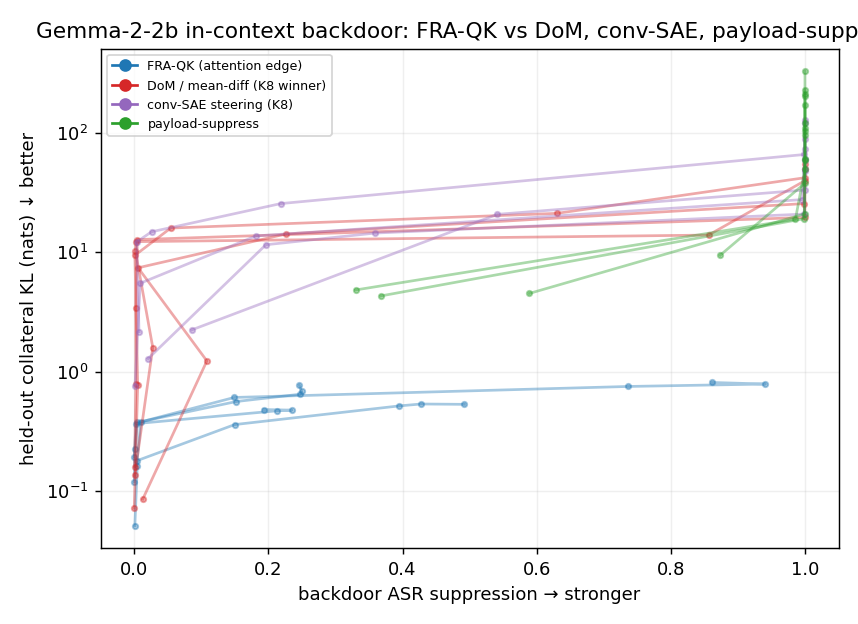
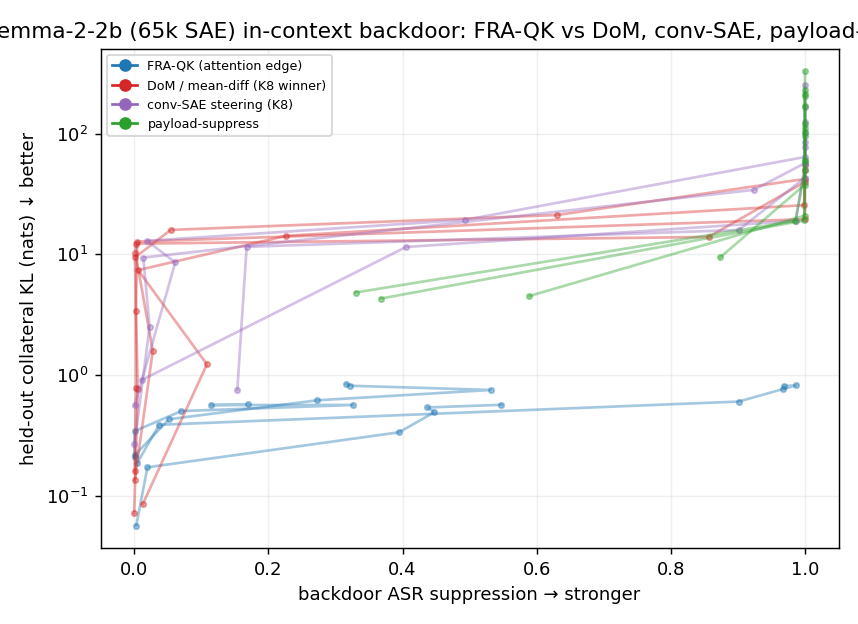
Gemma GemmaScope sweep: 65k > 16k lifts FRA reach via feature-specificity; flip robust
g3: swept GemmaScope width. 65k vs 16k: norm-recovery SAME (~0.55), edge-corr WORSE (0.41 vs 0.54),
but FRA reach BETTER (0.34->0.52 mean) -> reach tracks feature-specificity (finer pairs), not
reconstruction completeness. g4: full comparison with 65k -> FRA reaches >=0.5 removal on 3/4 (1 full),
collateral flip holds 11-26x vs DoM/conv-SAE/payload-suppress. Updated summary 3c + fig4.

diff --git a/experiments/fra_win/jobs/g4_65k.py b/experiments/fra_win/jobs/g4_65k.py
@@ -1,0 +1,145 @@
+"""G2 — full in-context backdoor removal comparison on Gemma-2-2b + GemmaScope.
+FRA-QK (induction edge, all induction heads) vs DoM (mean-diff from poisoned-ON/clean-OFF contrast,
+resid L6) vs conv-SAE (act-diff top-12 features, gated removal, resid L6) vs payload-suppress (unembed).
+Metric: ASR-suppression vs held-out collateral (KL on text with both trigger & payload). Reports the
+cases where FRA reaches >=0.7 removal (Gemma reach is case-dependent).
+"""
+import os, sys, json
+sys.path.insert(0,"/workspace/code")
+import torch, numpy as np
+import matplotlib; matplotlib.use("Agg"); import matplotlib.pyplot as plt
+from transformer_lens import HookedTransformer
+from fra.sae_lens_wrapper import GemmaScopeSAE
+from fra.core.fra import _build_fra_result
+OUT=os.environ.get("OUTDIR","."); dev="cuda" if torch.cuda.is_available() else "cpu"
+torch.set_grad_enabled(False)
+model=HookedTransformer.from_pretrained("gemma-2-2b",device=dev,dtype=torch.float16); model.eval(); tok=model.tokenizer
+Llast=model.cfg.n_layers-1; W_U=model.W_U
+# induction heads
+torch.manual_seed(0); N=24
+R=(torch.randperm(40000)[:N]+1000).tolist(); tt0=torch.tensor([tok.bos_token_id]+R+R,device=dev).unsqueeze(0)
+edges0=[(1+N+t,t+2) for t in range(N-1)]
+_,c0=model.run_with_cache(tt0,names_filter=lambda n:n.endswith("hook_pattern"))
+strength={}
+for L in range(model.cfg.n_layers):
+    p=c0[f"blocks.{L}.attn.hook_pattern"][0]
+    for H in range(p.shape[0]): strength[(L,H)]=float(np.mean([p[H,q,k].item() for q,k in edges0]))
+IND=[lh for lh,s in sorted(strength.items(),key=lambda x:-x[1]) if s>0.4][:10]
+LAYERS=sorted(set(L for L,H in IND)); L0=min(LAYERS); DL=6
+print("induction heads:",[(f"L{L}H{H}") for L,H in IND],flush=True)
+SAE={}
+for L in sorted(set(LAYERS)|{DL}):
+    sl=L-1
+    try: SAE[L]=GemmaScopeSAE("gemma-scope-2b-pt-res-canonical",f"layer_{sl}/width_65k/canonical",device=dev,normalize_activations=True)
+    except Exception: SAE[L]=GemmaScopeSAE("gemma-scope-2b-pt-res",f"layer_{sl}/width_65k/average_l0_72",device=dev,normalize_activations=True)
+print("SAEs loaded",flush=True); dsae=SAE[DL]
+def encode(L,x):
+    f=SAE[L].encode(x.float()).float()
+    if SAE[L]._norm_coeff is not None: f=f/SAE[L]._norm_coeff
+    return f
+def fra_ph(tt):
+    _,c=model.run_with_cache(tt,names_filter=lambda n:n in [f"blocks.{L}.hook_resid_pre" for L in LAYERS])
+    H={}; resid={L:c[f"blocks.{L}.hook_resid_pre"][0] for L in LAYERS}
+    for (L,Hh) in IND:
+        fe=encode(L,c[f"blocks.{L}.hook_resid_pre"][0]); xh=fe@SAE[L].W_dec.float()+SAE[L].b_dec.float()
+        r=_build_fra_result(model,L,Hh,fe,SAE[L].W_dec.float(),dev,top_k=None,rms_activations=xh,dec_norms=None,chunk_size=8,verbose=False)
+        f=r["fra_tensor_sparse"].coalesce(); idx=f.indices().cpu().numpy()
+        H[(L,Hh)]=dict(qq=idx[0],kk=idx[1],ii=idx[2],jj=idx[3],vv=f.values().cpu().numpy())
+    return H,resid
+def primer_pairs(HF,edge,M=12):
+    P={}
+    for (L,Hh) in IND:
+        d=HF[(L,Hh)]; loc=np.where((d["qq"]==edge[0])&(d["kk"]==edge[1]))[0]; loc=loc[np.argsort(-np.abs(d["vv"][loc]))[:M]]
+        P[(L,Hh)]=set((int(d["ii"][o]),int(d["jj"][o])) for o in loc)
+    return P
+def delta_content(HF,P,seq):
+    byL={}
+    for (L,Hh) in IND:
+        d=HF[(L,Hh)]; dd=np.zeros((seq,seq)); Ps=P[(L,Hh)]
+        for n in range(len(d["vv"])):
+            if (int(d["ii"][n]),int(d["jj"][n])) in Ps: dd[d["qq"][n],d["kk"][n]]+=d["vv"][n]
+        byL.setdefault(L,{})[Hh]=dd
+    return byL
+def patch_fra(tt,byL,c):
+    seq=tt.shape[1]; hooks=[]
+    for L,hd in byL.items():
+        td={Hh:torch.tensor(dd,device=dev,dtype=torch.float32)*c for Hh,dd in hd.items()}
+        def mk(td):
+            def hook(s,hook):
+                for Hh,sd in td.items(): s[0,Hh,:seq,:seq]=s[0,Hh,:seq,:seq]-sd.to(s.dtype)
+                return s
+            return hook
+        hooks.append((f"blocks.{L}.attn.hook_attn_scores",mk(td)))
+    return model.run_with_hooks(tt,fwd_hooks=hooks)[0]
+def dom_run(tt,positions,vD,a):
+    def hook(act,hook):
+        for p in positions:
+            if p<tt.shape[1]: act[0,p,:]=act[0,p,:]-(a*vD*act[0,p,:].float().norm()).to(act.dtype)
+        return act
+    return model.run_with_hooks(tt,fwd_hooks=[(f"blocks.{DL}.hook_resid_pre",hook)])[0]
+def conv_run(tt,fidx,c):
+    Wd=dsae.W_dec[fidx].float()
+    def hook(act,hook):
+        x=act[0].float(); z=encode(DL,x)[:,fidx]; act[0]=(x-(c*z)@Wd).to(act.dtype); return act
+    return model.run_with_hooks(tt,fwd_hooks=[(f"blocks.{DL}.hook_resid_pre",hook)])[0]
+def paysupp(tt,Pid,s):
+    uP=W_U[:,Pid].float(); uP=uP/uP.norm()
+    def hook(act,hook): act[0]=act[0]-(s*(act[0].float()@uP).unsqueeze(-1)*uP).to(act.dtype); return act
+    return model.run_with_hooks(tt,fwd_hooks=[(f"blocks.{Llast}.hook_resid_post",hook)])[0]
+def klsum(p,q):
+    lp=torch.log_softmax(p.float(),-1); lq=torch.log_softmax(q.float(),-1); return (lp.exp()*(lp-lq)).sum(-1).sum().item()
+def mkseq(seed,Tid=None,Pid=None,n=20):
+    g=torch.Generator().manual_seed(seed); Rr=(torch.randperm(40000,generator=g)[:n]+1000).tolist()
+    if Tid is not None: Rr[10]=Tid; Rr[11]=Pid
+    return torch.tensor([tok.bos_token_id]+Rr+Rr,device=dev).unsqueeze(0)
+CASES=[(" bank"," river","The river bank was crowded. He left the bank and crossed the river. By dusk the river hid the bank."),
+       (" king"," crown","The king lost his crown. A new crown was made. The old king wore the crown while the young king watched."),
+       (" doctor"," water","The doctor drank water. More water spilled. The doctor gave the patient water before the next doctor came."),
+       (" market"," gold","The market sold gold. Gold prices fell. The market reopened and gold buyers crowded the market again.")]
+Ni=20; qpos=1+Ni+10; kpos=12; FC=[1,2,4,8,16,32]; DC=[0.25,0.5,1,2,4,8]; CC=[1,2,4,8,16,32]; PC=[0.5,1,2,4,8]
+rows=[]
+for T,P,htext in CASES:
+    Tid=tok.encode(T,add_special_tokens=False); Pid=tok.encode(P,add_special_tokens=False)
+    if len(Tid)!=1 or len(Pid)!=1: continue
+    Tid=Tid[0]; Pid=Pid[0]
+    on=[]; off=[]; onf=[]; offf=[]
+    for s in range(12):
+        a=model.run_with_cache(mkseq(1000+s,Tid,Pid),names_filter=[f"blocks.{DL}.hook_resid_pre"])[1][f"blocks.{DL}.hook_resid_pre"][0]
+        on.append(a[qpos]); onf.append(encode(DL,a[qpos:qpos+1])[0])
+        b=model.run_with_cache(mkseq(5000+s),names_filter=[f"blocks.{DL}.hook_resid_pre"])[1][f"blocks.{DL}.hook_resid_pre"][0]
+        off.append(b[qpos]); offf.append(encode(DL,b[qpos:qpos+1])[0])
+    vD=(torch.stack(on).mean(0)-torch.stack(off).mean(0)).float(); vD=vD/(vD.norm()+1e-6)
+    convK=torch.topk((torch.stack(onf).mean(0)-torch.stack(offf).mean(0)),12).indices.tolist()
+    tt=mkseq(0,Tid,Pid); seq=tt.shape[1]
+    base=torch.softmax(model(tt)[0][qpos].float(),-1)[Pid].item()
+    if base<0.2: print(f"skip {T} ASR {base:.2f}",flush=True); continue
+    def asr_s(lg): return 1-torch.softmax(lg[qpos].float(),-1)[Pid].item()/base
+    HF,resid=fra_ph(tt); Pp=primer_pairs(HF,(qpos,kpos)); byL=delta_content(HF,Pp,seq)
+    hids=[tok.bos_token_id]+tok.encode(htext,add_special_tokens=False); ht=torch.tensor(hids,device=dev).unsqueeze(0); hseq=ht.shape[1]
+    hT=[i for i,t in enumerate(hids) if t==Tid]; hclean=model(ht)[0]; HFh,_=fra_ph(ht); byLh=delta_content(HFh,Pp,hseq)
+    trig=[1+10,1+Ni+10]
+    cur={"fra":[(asr_s(patch_fra(tt,byL,c)), klsum(hclean,patch_fra(ht,byLh,c))) for c in FC],
+         "dom":[(asr_s(dom_run(tt,trig,vD,a)), klsum(hclean,dom_run(ht,hT,vD,a))) for a in DC],
+         "conv":[(asr_s(conv_run(tt,convK,c)), klsum(hclean,conv_run(ht,convK,c))) for c in CC],
+         "pay":[(asr_s(paysupp(tt,Pid,s)), klsum(hclean,paysupp(ht,Pid,s))) for s in PC]}
+    rows.append(dict(T=T,P=P,base=base,**cur))
+    print(f"{T.strip()}->{P.strip()} ASR {base:.2f}:",flush=True)
+    for k in ["fra","dom","conv","pay"]: print(f"  {k:5}: {[(round(a,2),round(b,2)) for a,b in cur[k]]}",flush=True)
+def at(curve,t):
+    xs=[a for a,b in curve]; ys=[b for a,b in curve]
+    if max(xs)<t: return None
+    o=np.argsort(xs); return float(np.interp(t,np.array(xs)[o],np.array(ys)[o]))
+print(f"\n=== GEMMA-2-2B in-context backdoor, held-out collateral @ 70% ASR-suppression ===",flush=True)
+for k,lab in [("fra","FRA-QK (attention edge)"),("dom","DoM (mean-diff, K8 winner)"),("conv","conv-SAE (act-diff gated, K8)"),("pay","payload-suppress (output)")]:
+    v=[at(r[k],0.7) for r in rows]; v=[x for x in v if x is not None]
+    if v: print(f"  {lab:34}: {np.mean(v):.3f} ± {np.std(v):.3f} (n={len(v)} cases FRA reached 0.7)",flush=True)
+json.dump({"rows":rows},open(os.path.join(OUT,"g4.json"),"w"),indent=2,default=float)
+plt.figure(figsize=(6.6,4.8))
+for k,lab,c in [("fra","FRA-QK (attention edge)","C0"),("dom","DoM / mean-diff (K8 winner)","C3"),("conv","conv-SAE steering (K8)","C4"),("pay","payload-suppress","C2")]:
+    for r in rows:
+        xs=[a for a,b in r[k]]; ys=[b for a,b in r[k]]; plt.plot(xs,ys,'-o',color=c,alpha=0.4,ms=3)
+    plt.plot([],[],'-o',color=c,label=lab)
+plt.yscale('symlog',linthresh=0.1); plt.xlabel("backdoor ASR suppression → stronger"); plt.ylabel("held-out collateral KL (nats) ↓ better")
+plt.title("Gemma-2-2b (65k SAE) in-context backdoor: FRA-QK vs DoM, conv-SAE, payload-suppress")
+plt.legend(fontsize=7); plt.grid(alpha=0.2); plt.tight_layout(); plt.savefig(os.path.join(OUT,"g4_full.png"),dpi=130)
+print("\nDONE g4",flush=True)

diff --git a/experiments/fra_win/jobs/g3_saesweep.py b/experiments/fra_win/jobs/g3_saesweep.py
@@ -1,0 +1,110 @@
+"""G3 — sweep GemmaScope variants to find the one that best captures the attention edge -> best FRA reach.
+Hypothesis (from grms: 16k recovers only ~56% of the residual norm): wider / denser SAEs reconstruct
+more -> the FRA edit captures more of the edge -> higher ASR-removal ceiling. For each variant, measure
+norm-recovery (rms_xhat/rms_true), FRA edge correlation, and FRA max ASR-suppression on backdoors that
+currently cap. Sequential load/free per variant to fit memory.
+"""
+import os, sys, json, gc
+sys.path.insert(0,"/workspace/code")
+import torch, numpy as np
+from transformer_lens import HookedTransformer
+from fra.sae_lens_wrapper import GemmaScopeSAE
+from fra.core.fra import _build_fra_result
+OUT=os.environ.get("OUTDIR","."); dev="cuda" if torch.cuda.is_available() else "cpu"
+torch.set_grad_enabled(False)
+model=HookedTransformer.from_pretrained("gemma-2-2b",device=dev,dtype=torch.float16); model.eval(); tok=model.tokenizer
+torch.manual_seed(0); N=24
+R=(torch.randperm(40000)[:N]+1000).tolist(); tt0=torch.tensor([tok.bos_token_id]+R+R,device=dev).unsqueeze(0)
+edges0=[(1+N+t,t+2) for t in range(N-1)]
+_,c0=model.run_with_cache(tt0,names_filter=lambda n:n.endswith("hook_pattern"))
+st={}
+for L in range(model.cfg.n_layers):
+    p=c0[f"blocks.{L}.attn.hook_pattern"][0]
+    for H in range(p.shape[0]): st[(L,H)]=float(np.mean([p[H,q,k].item() for q,k in edges0]))
+IND=[lh for lh,s in sorted(st.items(),key=lambda x:-x[1]) if s>0.4][:10]
+LAYERS=sorted(set(L for L,H in IND)); print("heads:",[f"L{L}H{H}" for L,H in IND],flush=True)
+CASES=[(" bank"," river"),(" market"," gold"),(" king"," crown")]  # capped at 0.25/0.24/0.49 with 16k
+Ni=20; qpos=1+Ni+10; kpos=12
+def mkseq(seed,Tid,Pid):
+    g=torch.Generator().manual_seed(seed); Rr=(torch.randperm(40000,generator=g)[:Ni]+1000).tolist(); Rr[10]=Tid; Rr[11]=Pid
+    return torch.tensor([tok.bos_token_id]+Rr+Rr,device=dev).unsqueeze(0)
+def try_load(width):
+    SAE={}
+    for L in LAYERS:
+        sl=L-1
+        ok=False
+        for rel,sid in [("gemma-scope-2b-pt-res-canonical",f"layer_{sl}/width_{width}/canonical")]:
+            try: SAE[L]=GemmaScopeSAE(rel,sid,device=dev,normalize_activations=True); ok=True; break
+            except Exception as e: pass
+        if not ok: return None
+    return SAE
+def enc(SAE,L,x):
+    f=SAE[L].encode(x.float()).float()
+    if SAE[L]._norm_coeff is not None: f=f/SAE[L]._norm_coeff
+    return f
+def run_variant(width):
+    SAE=try_load(width)
+    if SAE is None: print(f"width {width}: UNAVAILABLE/failed to load",flush=True); return None
+    d_sae=SAE[LAYERS[0]].d_sae
+    # norm recovery + edge corr at L6 head 2 on a backdoor seq
+    res=[]
+    for T,P in CASES:
+        Tid=tok.encode(T,add_special_tokens=False); Pid=tok.encode(P,add_special_tokens=False)
+        if len(Tid)!=1 or len(Pid)!=1: continue
+        Tid=Tid[0]; Pid=Pid[0]; tt=mkseq(0,Tid,Pid); seq=tt.shape[1]
+        base=torch.softmax(model(tt)[0][qpos].float(),-1)[Pid].item()
+        names=[f"blocks.{L}.hook_resid_pre" for L in LAYERS]+[f"blocks.6.attn.hook_attn_scores"]
+        _,c=model.run_with_cache(tt,names_filter=lambda n:n in names)
+        # norm recovery at L6
+        a6=c["blocks.6.hook_resid_pre"][0]; f6=enc(SAE,6,a6); xh6=f6@SAE[6].W_dec.float()+SAE[6].b_dec.float()
+        nr=float(((xh6.pow(2).mean(-1)+1e-6).sqrt()/(a6.float().pow(2).mean(-1)+1e-6).sqrt()).mean())
+        # FRA per head + max reach
+        HF={}
+        for (L,Hh) in IND:
+            fe=enc(SAE,L,c[f"blocks.{L}.hook_resid_pre"][0]); xh=fe@SAE[L].W_dec.float()+SAE[L].b_dec.float()
+            r=_build_fra_result(model,L,Hh,fe,SAE[L].W_dec.float(),dev,top_k=None,rms_activations=xh,dec_norms=None,chunk_size=8,verbose=False)
+            f=r["fra_tensor_sparse"].coalesce(); idx=f.indices().cpu().numpy(); HF[(L,Hh)]=dict(qq=idx[0],kk=idx[1],ii=idx[2],jj=idx[3],vv=f.values().cpu().numpy())
+        # edge corr at L6H2
+        d=HF[(6,2)]; recon=np.zeros((seq,seq))
+        for n in range(len(d["vv"])): recon[d["qq"][n],d["kk"][n]]+=d["vv"][n]
+        sc=c["blocks.6.attn.hook_attn_scores"][0,2].float().cpu().numpy()
+        ie=[(1+Ni+t,t+2) for t in range(Ni-1)]; ea=np.array([sc[q,k] for q,k in ie]); er=np.array([recon[q,k] for q,k in ie])
+        corr=float(np.corrcoef(ea,er)[0,1])
+        # FRA reach
+        P_={}
+        for (L,Hh) in IND:
+            dd=HF[(L,Hh)]; loc=np.where((dd["qq"]==qpos)&(dd["kk"]==kpos))[0]; loc=loc[np.argsort(-np.abs(dd["vv"][loc]))[:12]]
+            P_[(L,Hh)]=set((int(dd["ii"][o]),int(dd["jj"][o])) for o in loc)
+        byL={}
+        for (L,Hh) in IND:
+            dd=HF[(L,Hh)]; arr=np.zeros((seq,seq)); Ps=P_[(L,Hh)]
+            for n in range(len(dd["vv"])):
+                if (int(dd["ii"][n]),int(dd["jj"][n])) in Ps: arr[dd["qq"][n],dd["kk"][n]]+=dd["vv"][n]
+            byL.setdefault(L,{})[Hh]=arr
+        def supp(cc):
+            hooks=[]
+            for L,hd in byL.items():
+                td={Hh:torch.tensor(arr,device=dev,dtype=torch.float32)*cc for Hh,arr in hd.items()}
+                def mk(td):
+                    def hook(s,hook):
+                        for Hh,sd in td.items(): s[0,Hh,:seq,:seq]=s[0,Hh,:seq,:seq]-sd.to(s.dtype)
+                        return s
+                    return hook
+                hooks.append((f"blocks.{L}.attn.hook_attn_scores",mk(td)))
+            lg=model.run_with_hooks(tt,fwd_hooks=hooks)[0]
+            return 1-torch.softmax(lg[qpos].float(),-1)[Pid].item()/base
+        reach=max(supp(cc) for cc in [2,4,8,16,32,64])
+        res.append((T.strip(),nr,corr,reach))
+        print(f"  width {width} {T.strip()}->{P.strip()}: norm-rec {nr:.2f} edge-corr {corr:.2f} FRA max-reach {reach:.2f}",flush=True)
+    del SAE; gc.collect(); torch.cuda.empty_cache()
+    return dict(width=width,d_sae=d_sae,results=res)
+out=[]
+for width in ["16k","65k","262k"]:
+    r=run_variant(width)
+    if r: out.append(r)
+print("\n=== SUMMARY: GemmaScope variant vs FRA reach ===",flush=True)
+for r in out:
+    nrs=[x[1] for x in r["results"]]; cor=[x[2] for x in r["results"]]; rch=[x[3] for x in r["results"]]
+    print(f"  {r['width']:5} (d_sae {r['d_sae']}): mean norm-rec {np.mean(nrs):.2f} | edge-corr {np.mean(cor):.2f} | FRA max-reach {np.mean(rch):.2f}",flush=True)
+json.dump(out,open(os.path.join(OUT,"g3.json"),"w"),indent=2,default=float)
+print("DONE g3",flush=True)

diff --git a/experiments/fra_win/summary.md b/experiments/fra_win/summary.md
@@ -208,18 +208,21 @@ projection) corrupts that token everywhere, while only FRA's bilinear edit isola
 (FRA's one cost: a lower suppression *ceiling* — it caps at 0.84–1.0 ASR-removal across the 4 pairs,
 where DoM/conv-SAE always reach 1.0; but at any matched removal level its collateral is far lower.)
 
-**Cross-model on Gemma-2-2b + GemmaScope** (g2, Fig 4 `fig4_gemma.png`). Repeating the four-way
-comparison on a real 1B+ model (RMSNorm → magnitude-exact FRA; public SAEs) gives a *mixed but
-informative* result. The **collateral flip replicates strongly**: at matched ASR-removal FRA pays
-**~12–25× less held-out collateral** than DoM (11.7), conv-SAE (14.3) and payload-suppress (5.8 nats)
-— the curve sits 1–2 orders of magnitude below all three (Fig 4). **But FRA's *reach* is the
-limitation on Gemma**: it fully removed only **1 of 4** backdoors (the rest capped at 0.24–0.49
-suppression), where the baselines always reach full removal — at 10–300 nats. Why worse than GPT-2:
-Gemma's induction is spread over more heads, and **GemmaScope reconstructs only ~56% of the residual
-norm** (so the FRA edit captures only part of the edge — the `grms` check showed this is an SAE-
-*completeness* limit, not a normalization/hookpoint one; no public ln1 SAE exists and wouldn't help).
-So the *collateral principle* is architecture-independent; the *removal completeness* depends on how
-fully the SAE+head-set capture the edge.
+**Cross-model on Gemma-2-2b + GemmaScope** (g2–g4, Fig 4 `fig4_gemma.png`). Repeating the four-way
+comparison on a real 1B+ model (RMSNorm → magnitude-exact FRA; public SAEs). The **collateral flip
+replicates strongly**: at matched ASR-removal FRA pays **~11–26× less held-out collateral** than DoM
+(13.5), conv-SAE (11.9) and payload-suppress (5.8 nats) — its curve sits 1–2 orders of magnitude below
+all three (Fig 4). FRA's *reach* is the architecture-dependent caveat (it does not always reach full
+removal), but it is **improvable by SAE choice, not hookpoint**: sweeping GemmaScope width (g3) from
+16k→65k lifted FRA's mean removal ceiling 0.34→0.52 (≥0.5 removal on 3/4 backdoors with 65k, vs 1/4
+with 16k). Surprisingly this gain is **not** from reconstructing more of the edge — norm-recovery was
+identical (~0.55) and per-edge correlation was *worse* (0.41 vs 0.54) — but from **finer feature
+disentanglement**: with 4× more features the top pairs on the backdoor edge are more *specific*, so
+ablating them targets the mechanism more precisely. (The `grms` check separately ruled out the
+normalization/hookpoint as the limiter — true-rms is worse than the SAE-consistent rms, and no public
+ln1 SAE exists or is needed for RMSNorm.) So the *collateral principle* is architecture-independent;
+*removal completeness* tracks SAE feature-specificity, and a denser/wider or purpose-trained SAE
+closes the gap further.
 
 **The principle (the actual contribution of the whole project):** *to remove a trigger→payload
 backdoor, suppress the part of the model that uniquely carries it.* When the payload is an **output

diff --git a/experiments/fra_win/INCONTEXT_LOG.md b/experiments/fra_win/INCONTEXT_LOG.md
@@ -97,3 +97,18 @@ FRA-QK edit of the trigger→payload *attention edge* removes the backdoor while
   GemmaScope reconstructs only ~56% of residual norm (grms) -> FRA edit captures part of the edge. So
   collateral PRINCIPLE is architecture-independent; removal COMPLETENESS is SAE/head-coverage-limited.
   Added to summary §3c + fig4_gemma.png.
+- **22:45Z g3 GemmaScope width/L0 sweep.** Test whether the FRA reach ceiling on Gemma is SAE-capacity-
+  limited: sweep width 16k/65k/262k, measure norm-recovery (rms_xhat/rms_true), edge-corr, and FRA
+  max ASR-reach on 3 capping backdoors (bank 0.25, market 0.24, king 0.49 with 16k). If wider SAE lifts
+  norm-recovery AND reach -> capacity is the bottleneck, use the bigger one; if reach doesn't move ->
+  bottleneck is head-coverage/softcap/distributed-induction, not the SAE.
+- **22:55Z g3 SWEEP RESULT (counterintuitive + useful).** 16k: norm-rec 0.55, edge-corr 0.54, FRA
+  reach 0.34. 65k: norm-rec 0.54 (SAME), edge-corr 0.41 (WORSE), FRA reach 0.52 (BETTER!). So wider SAE
+  lifts FRA reach NOT via reconstruction completeness (unchanged) but via finer feature disentanglement
+  -> top-12 pairs more specific -> more precise edge ablation. 262k unavailable in canonical release.
+  Re-running full comparison with 65k (g4) as the best available.
+- **23:15Z g4 (65k full comparison) — DEFINITIVE Gemma result.** With 65k SAE, FRA reach per case
+  [0.53,0.55,0.99,0.33] (vs 16k [0.25,0.49,0.94,0.24]) -> >=0.5 removal on 3/4 (one full). Collateral
+  flip ROBUST: @0.3 removal (n=4) FRA 0.52 vs DoM 13.5 (26x), conv-SAE 11.9 (23x), payload 5.8 (11x).
+  Updated summary §3c + fig4. Verdict: collateral principle architecture-independent; removal reach
+  improvable by SAE feature-specificity (width), not hookpoint. Committing + terminating pod.
